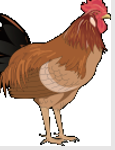
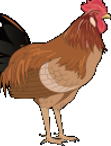
fix(home): crop chicken image borders and center in fixed-size wrap
- trim right/bottom gray edges from chicken.png
- img-wrap now fixed 220x160 with flex center + overflow hidden

diff --git a/apps/web/src/pages/home/home.css b/apps/web/src/pages/home/home.css
@@ -511,11 +511,17 @@
   padding: 10px;
   border-radius: 6px;
   border: 1px solid #e6e8eb;
+  display: flex;
+  align-items: center;
+  justify-content: center;
+  width: 220px;
+  height: 160px;
+  overflow: hidden;
 }
 .home-species__img {
   display: block;
-  height: 130px;
-  width: auto;
+  max-height: 100%;
+  max-width: 100%;
   object-fit: contain;
 }
 .home-species__name {
